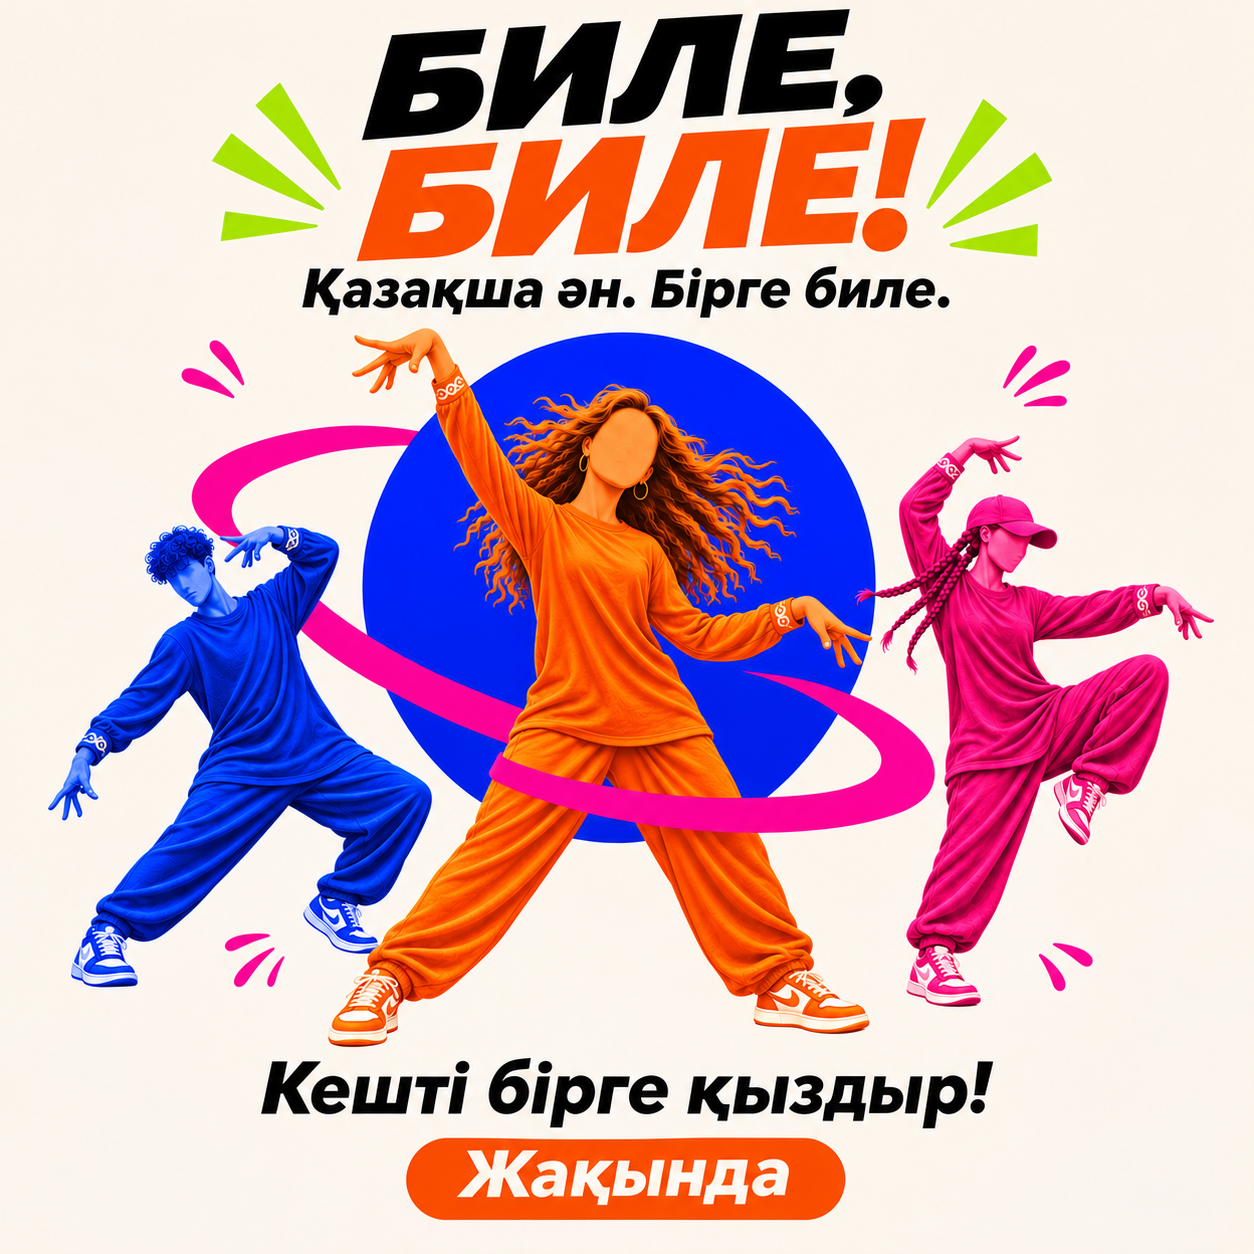
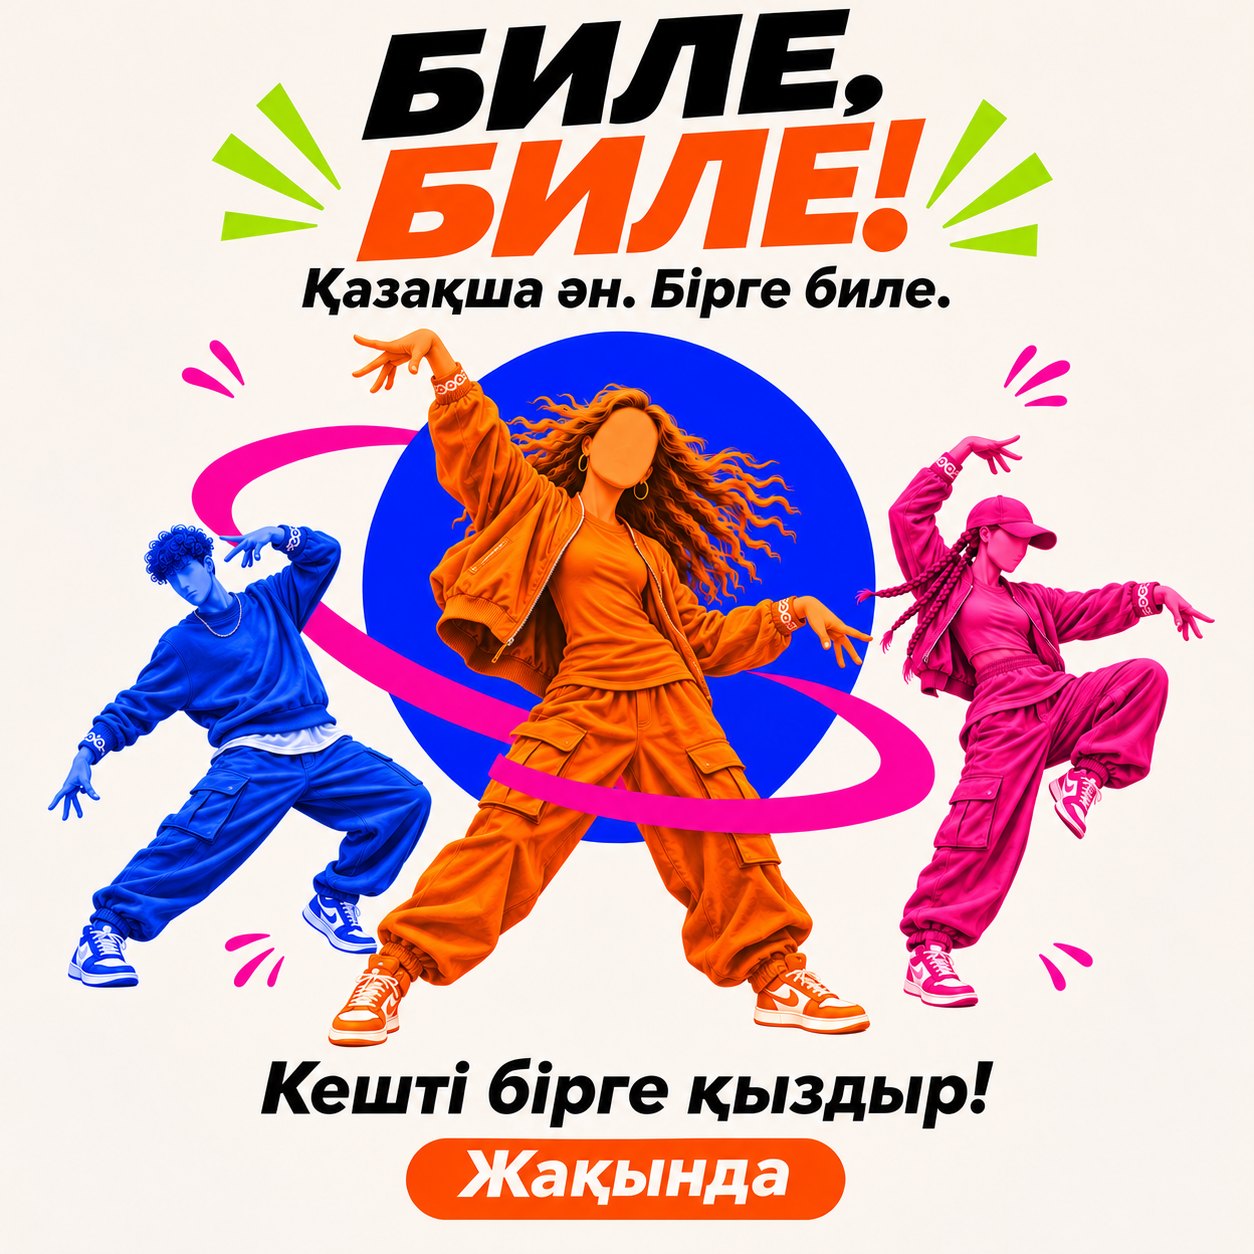
Restore original dance streetwear with covered midriffs

diff --git a/index.html b/index.html
@@ -1,4 +1,5 @@
-<!doctype html><html lang="kk"><head><meta charset="utf-8"><meta name="viewport" content="width=device-width,initial-scale=1"><meta name="theme-color" content="#fff9ee"><meta name="description" content="Биле-биле! Қазақ әндеріне арналған жаңа би кеші ойынының тұжырымдамасы."><title>Биле-биле! — Кешті бірге қыздыр.</title><link rel="stylesheet" href="style.css"><link rel="canonical" href="https://eldar0904.github.io/bile-bile/"><meta property="og:type" content="website"><meta property="og:title" content="Биле-биле! — Кешті бірге қыздыр."><meta property="og:description" content="Қазақша ән. Бірге биле. Жаңа би кеші ойынының тұжырымдамасы."><meta property="og:url" content="https://eldar0904.github.io/bile-bile/"><meta property="og:image" content="https://eldar0904.github.io/bile-bile/socials/bile-bile-social.png"><meta name="twitter:card" content="summary_large_image"></head><body><a class="skip" href="#main">Мазмұнға өту</a><header><a href="#" class="logo" aria-label="Биле-биле! Басты бет">биле<span>биле!</span></a><nav aria-label="Басты мәзір"><a href="#idea">Бұл қандай ойын?</a><a href="#moods">Кештің көңіл күйі</a></nav><a class="nav-cta" href="#idea">Танысып көр</a></header><main id="main"><section class="hero"><div class="hero-top"><p class="eyebrow">ҚАЗАҚША ӘН. БІРГЕ БИЛЕ.</p><span>Жаңа ойын тұжырымдамасы</span></div><h1>БИЛЕ,<span>БИЛЕ!</span></h1><div class="art"><img src="dance-hero-vibrant.png" width="1536" height="1024" fetchpriority="high" alt="Жеңіл жабық киім киген көк, қызғылт сары және қызғылт түсті үш биші"><span class="stamp">БИ БІЛУ<br>МІНДЕТТІ<br><b>ЕМЕС!</b></span></div><div class="hero-bottom"><p>Таныс әндерді қос.<br>Достарыңды жина. <strong>Кешті қыздыр.</strong></p><a href="#idea" class="button">Ойынмен таныс</a><span>ҮЙДЕГІ ОТЫРЫС.<br>САХНАДАҒЫДАЙ СЕЗІМ.</span></div></section><div class="ribbon" aria-hidden="true">ӨЗ ӘНІҢ <i>✳</i> ӨЗ ОРТАҢ <i>✳</i> ӨЗ БИІҢ <i>✳</i> ӨЗ ӘНІҢ <i>✳</i> ӨЗ ОРТАҢ <i>✳</i> ӨЗ БИІҢ</div><section id="idea" class="idea"><p class="eyebrow">БӘРІ БІР ӘННЕН БАСТАЛАДЫ</p><div class="intro"><h2>Қонақ бөлме ме?<br><em>Бүгін ол — би алаңы.</em></h2><p>Биле-биле! — қазақ әндеріне арналған би кеші ойынының идеясы. Экрандағы бишіге ілесіп, өз ортаңмен бірге көңіл көтер.</p></div><div class="features"><article><span class="icon" aria-hidden="true"><svg viewBox="0 0 48 48"><path d="M20 34V12l20-5v22M20 17l20-5"/><ellipse cx="14" cy="35" rx="6" ry="5"/><ellipse cx="34" cy="30" rx="6" ry="5"/></svg></span><h3>Өзіңе таныс әуен</h3><p>Қазақша хиттер мен қазақ биінің өрнегін бір ойынға жинағымыз келеді.</p></article><article><span class="icon" aria-hidden="true"><svg viewBox="0 0 48 48"><rect x="4" y="8" width="40" height="28" rx="2"/><path d="M17 43h14M24 36v7m-4-27 10 6-10 6Z"/></svg></span><h3>Бір экранға жинал</h3><p>Жоспардағы алғашқы нұсқа: ноутбукті теледидарға қосып, бірге ойнау.</p></article><article><span class="icon" aria-hidden="true"><svg viewBox="0 0 48 48"><circle cx="24" cy="8" r="5"/><path d="m10 17 14 9 14-13M24 26v9m0 0L11 44m13-9 14 9"/></svg></span><h3>Қимылды қайтала</h3><p>Нағыз бишілер түсірген хореография. Жарқын силуэттер. Сенің еркін биің.</p></article></div></section><section id="moods" class="moods"><div class="mood-copy"><p class="eyebrow">БҮГІН ҚАНДАЙ КЕШ?</p><h2>Көңіл күйді<br>өзің таңда.</h2><p>Достармен басқосу ма, әлде отбасылық кеш пе? Әр отырыстың өз ырғағы бар.</p><div class="options" role="group" aria-label="Кештің көңіл күйін таңда"><button data-mood="friends" aria-pressed="true">Достармен</button><button data-mood="family" aria-pressed="false">Отбасымен</button><button data-mood="solo" aria-pressed="false">Өзім үшін</button></div><p class="small">Болашақ ойынның визуалды бағытын байқап көр.</p></div><div class="poster" data-theme="friends"><div class="poster-label">БИЛЕ-БИЛЕ! / PARTY</div><div class="poster-word" aria-hidden="true">БІРГЕ<br>КҮШТІ!</div><img src="dance-hero-vibrant.png" width="1536" height="1024" loading="lazy" alt="" aria-hidden="true"><div class="poster-caption" aria-live="polite"><strong id="mood-title">Достар барда — би бар.</strong><span id="mood-description">Бір ән. Бір орта. Естен кетпес кеш.</span></div></div></section><section class="faq"><p class="eyebrow">ТАҒЫ БІР-ЕКІ СҰРАҚ</p><div><details><summary>Ойынды қазір ойнауға бола ма?</summary><p>Әзірге бұл — таныстырылым. Ойын, әндер тізімі мен би бейнелері әзірлену кезеңінде. Бұл бетте ойынның визуалды бағыты көрсетілген.</p></details><details><summary>Би тәжірибесі керек пе?</summary><p>Идеямыз — бәрі қосыла алатын қарапайым қимылдардан бастау. Экрандағы бишіні қайталап, өзіңе ыңғайлы қарқынмен билейсің.</p></details><details><summary>Бишілер қалай түсіріледі?</summary><p>Хореографияны нағыз бишілермен түсіріп, бейнелерін түрлі түсті силуэттерге айналдыруды жоспарлап отырмыз.</p></details></div></section><section class="closing"><p class="eyebrow">КЕЛЕСІ КЕШТЕ КЕЗДЕСКЕНШЕ</p><h2>Қазақша ән.<br>Шексіз <em>көңіл күй.</em></h2><button id="share" class="button">Достарыңа көрсет</button><p id="share-status" role="status"></p></section></main><footer><a class="logo" href="#">биле<span>биле!</span></a><p>Бірге билегенге не жетсін.</p><span>Тұжырымдама · 2026</span></footer><script src="app.js"></script></body></html>
+<!doctype html><html lang="kk"><head><meta charset="utf-8"><meta name="viewport" content="width=device-width,initial-scale=1"><meta name="theme-color" content="#fff9ee"><meta name="description" content="Биле-биле! Қазақ әндеріне арналған жаңа би кеші ойынының тұжырымдамасы."><title>Биле-биле! — Кешті бірге қыздыр.</title><link rel="stylesheet" href="style.css"><link rel="canonical" href="https://eldar0904.github.io/bile-bile/"><meta property="og:type" content="website"><meta property="og:title" content="Биле-биле! — Кешті бірге қыздыр."><meta property="og:description" content="Қазақша ән. Бірге биле. Жаңа би кеші ойынының тұжырымдамасы."><meta property="og:url" content="https://eldar0904.github.io/bile-bile/"><meta property="og:image" content="https://eldar0904.github.io/bile-bile/socials/bile-bile-social.png"><meta name="twitter:card" content="summary_large_image"></head><body><a class="skip" href="#main">Мазмұнға өту</a><header><a href="#" class="logo" aria-label="Биле-биле! Басты бет">биле<span>биле!</span></a><nav aria-label="Басты мәзір"><a href="#idea">Бұл қандай ойын?</a><a href="#moods">Кештің көңіл күйі</a></nav><a class="nav-cta" href="#idea">Танысып көр</a></header><main id="main"><section class="hero"><div class="hero-top"><p class="eyebrow">ҚАЗАҚША ӘН. БІРГЕ БИЛЕ.</p><span>Жаңа ойын тұжырымдамасы</span></div><h1>БИЛЕ,<span>БИЛЕ!</span></h1><div class="art"><img src="dance-hero-street.png" width="1536" height="1024" fetchpriority="high" alt="Бомбер күртеше мен карго шалбар киген үш биші; іштері толық жабық"><span class="stamp">БИ БІЛУ<br>МІНДЕТТІ<br><b>ЕМЕС!</b></span></div><div class="hero-bottom"><p>Таныс әндерді қос.<br>Достарыңды жина. <strong>Кешті қыздыр.</strong></p><a href="#idea" class="button">Ойынмен таныс</a><span>ҮЙДЕГІ ОТЫРЫС.<br>САХНАДАҒЫДАЙ СЕЗІМ.</span></div></section><div class="ribbon" aria-hidden="true">ӨЗ ӘНІҢ <i>✳</i> ӨЗ ОРТАҢ <i>✳</i> ӨЗ БИІҢ <i>✳</i> ӨЗ ӘНІҢ <i>✳</i> ӨЗ ОРТАҢ <i>✳</i> ӨЗ БИІҢ</div><section id="idea" class="idea"><p class="eyebrow">БӘРІ БІР ӘННЕН БАСТАЛАДЫ</p><div class="intro"><h2>Қонақ бөлме ме?<br><em>Бүгін ол — би алаңы.</em></h2><p>Биле-биле! — қазақ әндеріне арналған би кеші ойынының идеясы. Экрандағы бишіге ілесіп, өз ортаңмен бірге көңіл көтер.</p></div><div class="features"><article><span class="icon" aria-hidden="true"><svg viewBox="0 0 48 48"><path d="M20 34V12l20-5v22M20 17l20-5"/><ellipse cx="14" cy="35" rx="6" ry="5"/><ellipse cx="34" cy="30" rx="6" ry="5"/></svg></span><h3>Өзіңе таныс әуен</h3><p>Қазақша хиттер мен қазақ биінің өрнегін бір ойынға жинағымыз келеді.</p></article><article><span class="icon" aria-hidden="true"><svg viewBox="0 0 48 48"><rect x="4" y="8" width="40" height="28" rx="2"/><path d="M17 43h14M24 36v7m-4-27 10 6-10 6Z"/></svg></span><h3>Бір экранға жинал</h3><p>Жоспардағы алғашқы нұсқа: ноутбукті теледидарға қосып, бірге ойнау.</p></article><article><span class="icon" aria-hidden="true"><svg viewBox="0 0 48 48"><circle cx="24" cy="8" r="5"/><path d="m10 17 14 9 14-13M24 26v9m0 0L11 44m13-9 14 9"/></svg></span><h3>Қимылды қайтала</h3><p>Нағыз бишілер түсірген хореография. Жарқын силуэттер. Сенің еркін биің.</p></article></div></section><section id="moods" class="moods"><div class="mood-copy"><p class="eyebrow">БҮГІН ҚАНДАЙ КЕШ?</p><h2>Көңіл күйді<br>өзің таңда.</h2><p>Достармен басқосу ма, әлде отбасылық кеш пе? Әр отырыстың өз ырғағы бар.</p><div class="options" role="group" aria-label="Кештің көңіл күйін таңда"><button data-mood="friends" aria-pressed="true">Достармен</button><button data-mood="family" aria-pressed="false">Отбасымен</button><button data-mood="solo" aria-pressed="false">Өзім үшін</button></div><p class="small">Болашақ ойынның визуалды бағытын байқап көр.</p></div><div class="poster" data-theme="friends"><div class="poster-label">БИЛЕ-БИЛЕ! / PARTY</div><div class="poster-word" aria-hidden="true">БІРГЕ<br>КҮШТІ!</div><img src="dance-hero-street.png" width="1536" height="1024" loading="lazy" alt="" aria-hidden="true"><div class="poster-caption" aria-live="polite"><strong id="mood-title">Достар барда — би бар.</strong><span id="mood-description">Бір ән. Бір орта. Естен кетпес кеш.</span></div></div></section><section class="faq"><p class="eyebrow">ТАҒЫ БІР-ЕКІ СҰРАҚ</p><div><details><summary>Ойынды қазір ойнауға бола ма?</summary><p>Әзірге бұл — таныстырылым. Ойын, әндер тізімі мен би бейнелері әзірлену кезеңінде. Бұл бетте ойынның визуалды бағыты көрсетілген.</p></details><details><summary>Би тәжірибесі керек пе?</summary><p>Идеямыз — бәрі қосыла алатын қарапайым қимылдардан бастау. Экрандағы бишіні қайталап, өзіңе ыңғайлы қарқынмен билейсің.</p></details><details><summary>Бишілер қалай түсіріледі?</summary><p>Хореографияны нағыз бишілермен түсіріп, бейнелерін түрлі түсті силуэттерге айналдыруды жоспарлап отырмыз.</p></details></div></section><section class="closing"><p class="eyebrow">КЕЛЕСІ КЕШТЕ КЕЗДЕСКЕНШЕ</p><h2>Қазақша ән.<br>Шексіз <em>көңіл күй.</em></h2><button id="share" class="button">Достарыңа көрсет</button><p id="share-status" role="status"></p></section></main><footer><a class="logo" href="#">биле<span>биле!</span></a><p>Бірге билегенге не жетсін.</p><span>Тұжырымдама · 2026</span></footer><script src="app.js"></script></body></html>
+
 
 
 

diff --git a/README.md b/README.md
@@ -15,3 +15,6 @@ No build step or dependencies. Edit index.html, style.css and app.js directly. G
 Dancer artwork uses lightweight, loose, fully covered dancewear with Kazakh-inspired details. Generated with built-in image generation. Social campaign image is in socials/.
 
 The page presents a concept, not a playable game. No song catalogue, scoring or sign-up backend is implemented.
+
+## Visual direction
+Original vibrant ivory/orange/cobalt/magenta/lime poster design. Street-dance fashion is retained: bomber jackets, fitted inner tees, cargo trousers and sneakers. Inner tees cover the abdomen and overlap the waistband. Kazakh influence is limited to tiny cuff details; no traditional borders or costume styling.

diff --git a/socials/README.md b/socials/README.md
@@ -3,3 +3,5 @@
 bile-bile-social.png — square Kazakh-language campaign artwork. Caption: caption-kk.txt.
 
 Generated and edited with built-in image generation. Final prompt: restore original vibrant orange/cobalt/magenta/lime palette, remove traditional corner borders and gold orbit, preserve lightweight loose modest dancewear and exact Kazakh campaign text, retain only tiny cuff motifs. No social accounts were posted to.
+
+Final clothing correction: original bomber jackets, fitted inner T-shirts, cargo trousers and sneakers restored from user reference. Only inner tops lengthened to cover bellies. Campaign text and vibrant palette preserved. Files generated/edited with built-in image generation.
